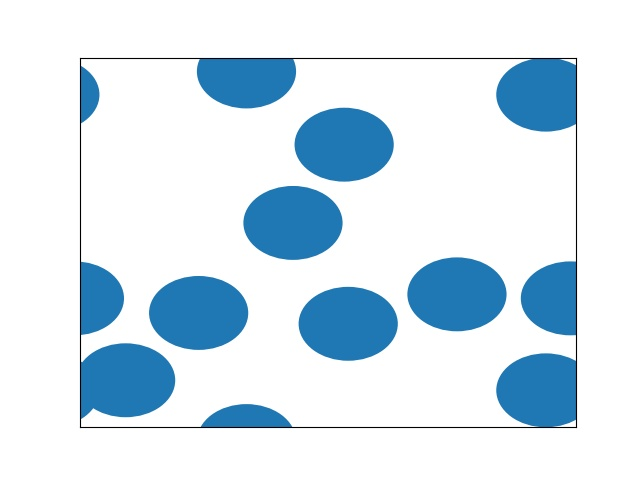
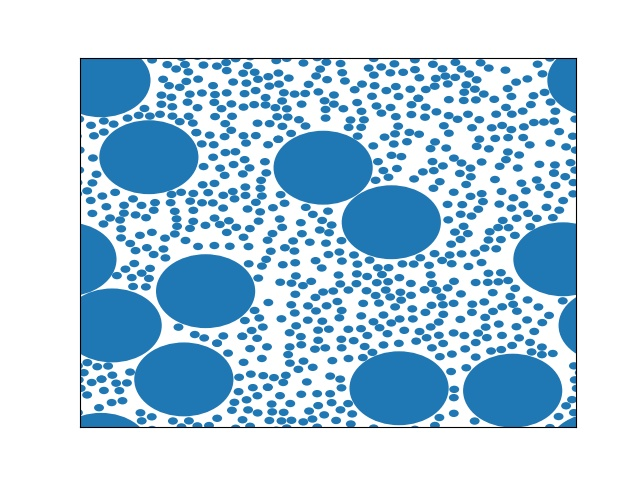
Fixed problems in BinaryClusterAlgoLib: all functions now work and are reasonably optimised

diff --git a/BinaryClusterAlgoLib.py b/BinaryClusterAlgoLib.py
@@ -9,7 +9,7 @@ import matplotlib
 matplotlib.use('Agg')
 import matplotlib.pyplot as plt
 from collections import deque
- 
+import time
 
 #Functions:
 
@@ -58,7 +58,7 @@ def createState(N,n,L,r):
         occArray[x,y].append(i)
     return {"positions": positions, "size": size, "occArray": occArray, "L":L}
 
-def plotOneState(state):
+def plotOneState(state, name="..."):
     '''Plot a state using matplotlib'''
     L = state["L"]
     fig, ax = plt.subplots()
@@ -74,7 +74,8 @@ def plotOneState(state):
         for x_shift in [z for z in x + [-L,0,L] if -r<z<L+r]:
             for y_shift in [z for z in y + [-L,0,L] if -r<z<L+r]:
                 ax.add_patch(plt.Circle((x_shift,y_shift),r))
-    outname = "testplot.jpeg"
+    if (name=="..."):
+        outname = "testplot.jpeg"
     plt.savefig(outname)
 
 def clearDisk(state,index):
@@ -104,18 +105,24 @@ def getOverlap(state, index):
 
     #big circles: check in 5x5 centred on circle
     if (True):
-        for dX in range(0,10): #wht 3?
+        for dX in range(-3,3): #wht 3?
             thisXSquare = (xSquare+dX) % L
-            for dY in range(0,10):
+            for dY in range(-3,3):
                 thisYSquare = (ySquare+dY) % L
                 circlesToCheck = state["occArray"][thisXSquare,thisYSquare]
                 for circle in circlesToCheck:
+                    #retrieve all vars for current circle:
                     thisR = state["size"][circle]
                     thisX,thisY = state["positions"][circle]
-                    xDist, yDist = x - thisX, y - thisY
+                    xDist, yDist = abs(x - thisX), abs(y - thisY)
                     #print(x,thisX,y,thisY,m.sqrt((x - thisX)**2 + (y - thisY)**2))
+                    #check for overlap:
                     if ( m.sqrt(min(xDist,L-xDist)**2 + min(yDist,L-yDist)**2) < R+thisR):
-                        overlap.append(circle)
+                        #check if fully covered (small circle represented by square for convenience):
+                        if (R==1 and thisR <1 and m.sqrt(xDist**2 + yDist**2)+thisR < R):
+                            overlap.append((circle,True))
+                        else:
+                            overlap.append((circle,False))
     return overlap
 
 
@@ -130,21 +137,34 @@ def randomDiskClusterMove(state):
 
 def diskClusterMove(state,index,pivot):
     toMove = deque()
+    moved = []
     toMove.appendleft(index)
     clearDisk(state,index)
+    moved.append(index)
     while toMove:
         thisDisk = toMove.pop()
         pointReflect(state["positions"][thisDisk], pivot, state["L"])
         overlap = getOverlap(state,thisDisk)
-        for diskToMove in overlap:
-            toMove.appendleft(diskToMove)
+        for (diskToMove, isCovered) in overlap:
             clearDisk(state,diskToMove)
-        print(toMove)
-        addDisk(state,thisDisk)
+            moved.append(diskToMove)
+            if isCovered:
+                pointReflect(state["positions"][diskToMove], pivot, state["L"])
+            else:
+                toMove.appendleft(diskToMove)
+            
+    #Original added disks immidiatly, but this caused some problem. This fixes it, but the original problem suggests our code is still wrong somewhere...
+    for i in range(len(moved)):
+        addDisk(state,moved[i])
 
 
 # Code to run:
-s = createState(10,0,10,0.1)
-for i in range(10):
+N = 1000
+
+s = createState(10,700,10,0.1)
+startTime = time.perf_counter()
+for i in range(N):
     randomDiskClusterMove(s)
+spentTime = time.perf_counter() - startTime
+print("Performing "+str(N)+" Cluster moves takes "+str(spentTime)+"s.")
 plotOneState(s)
